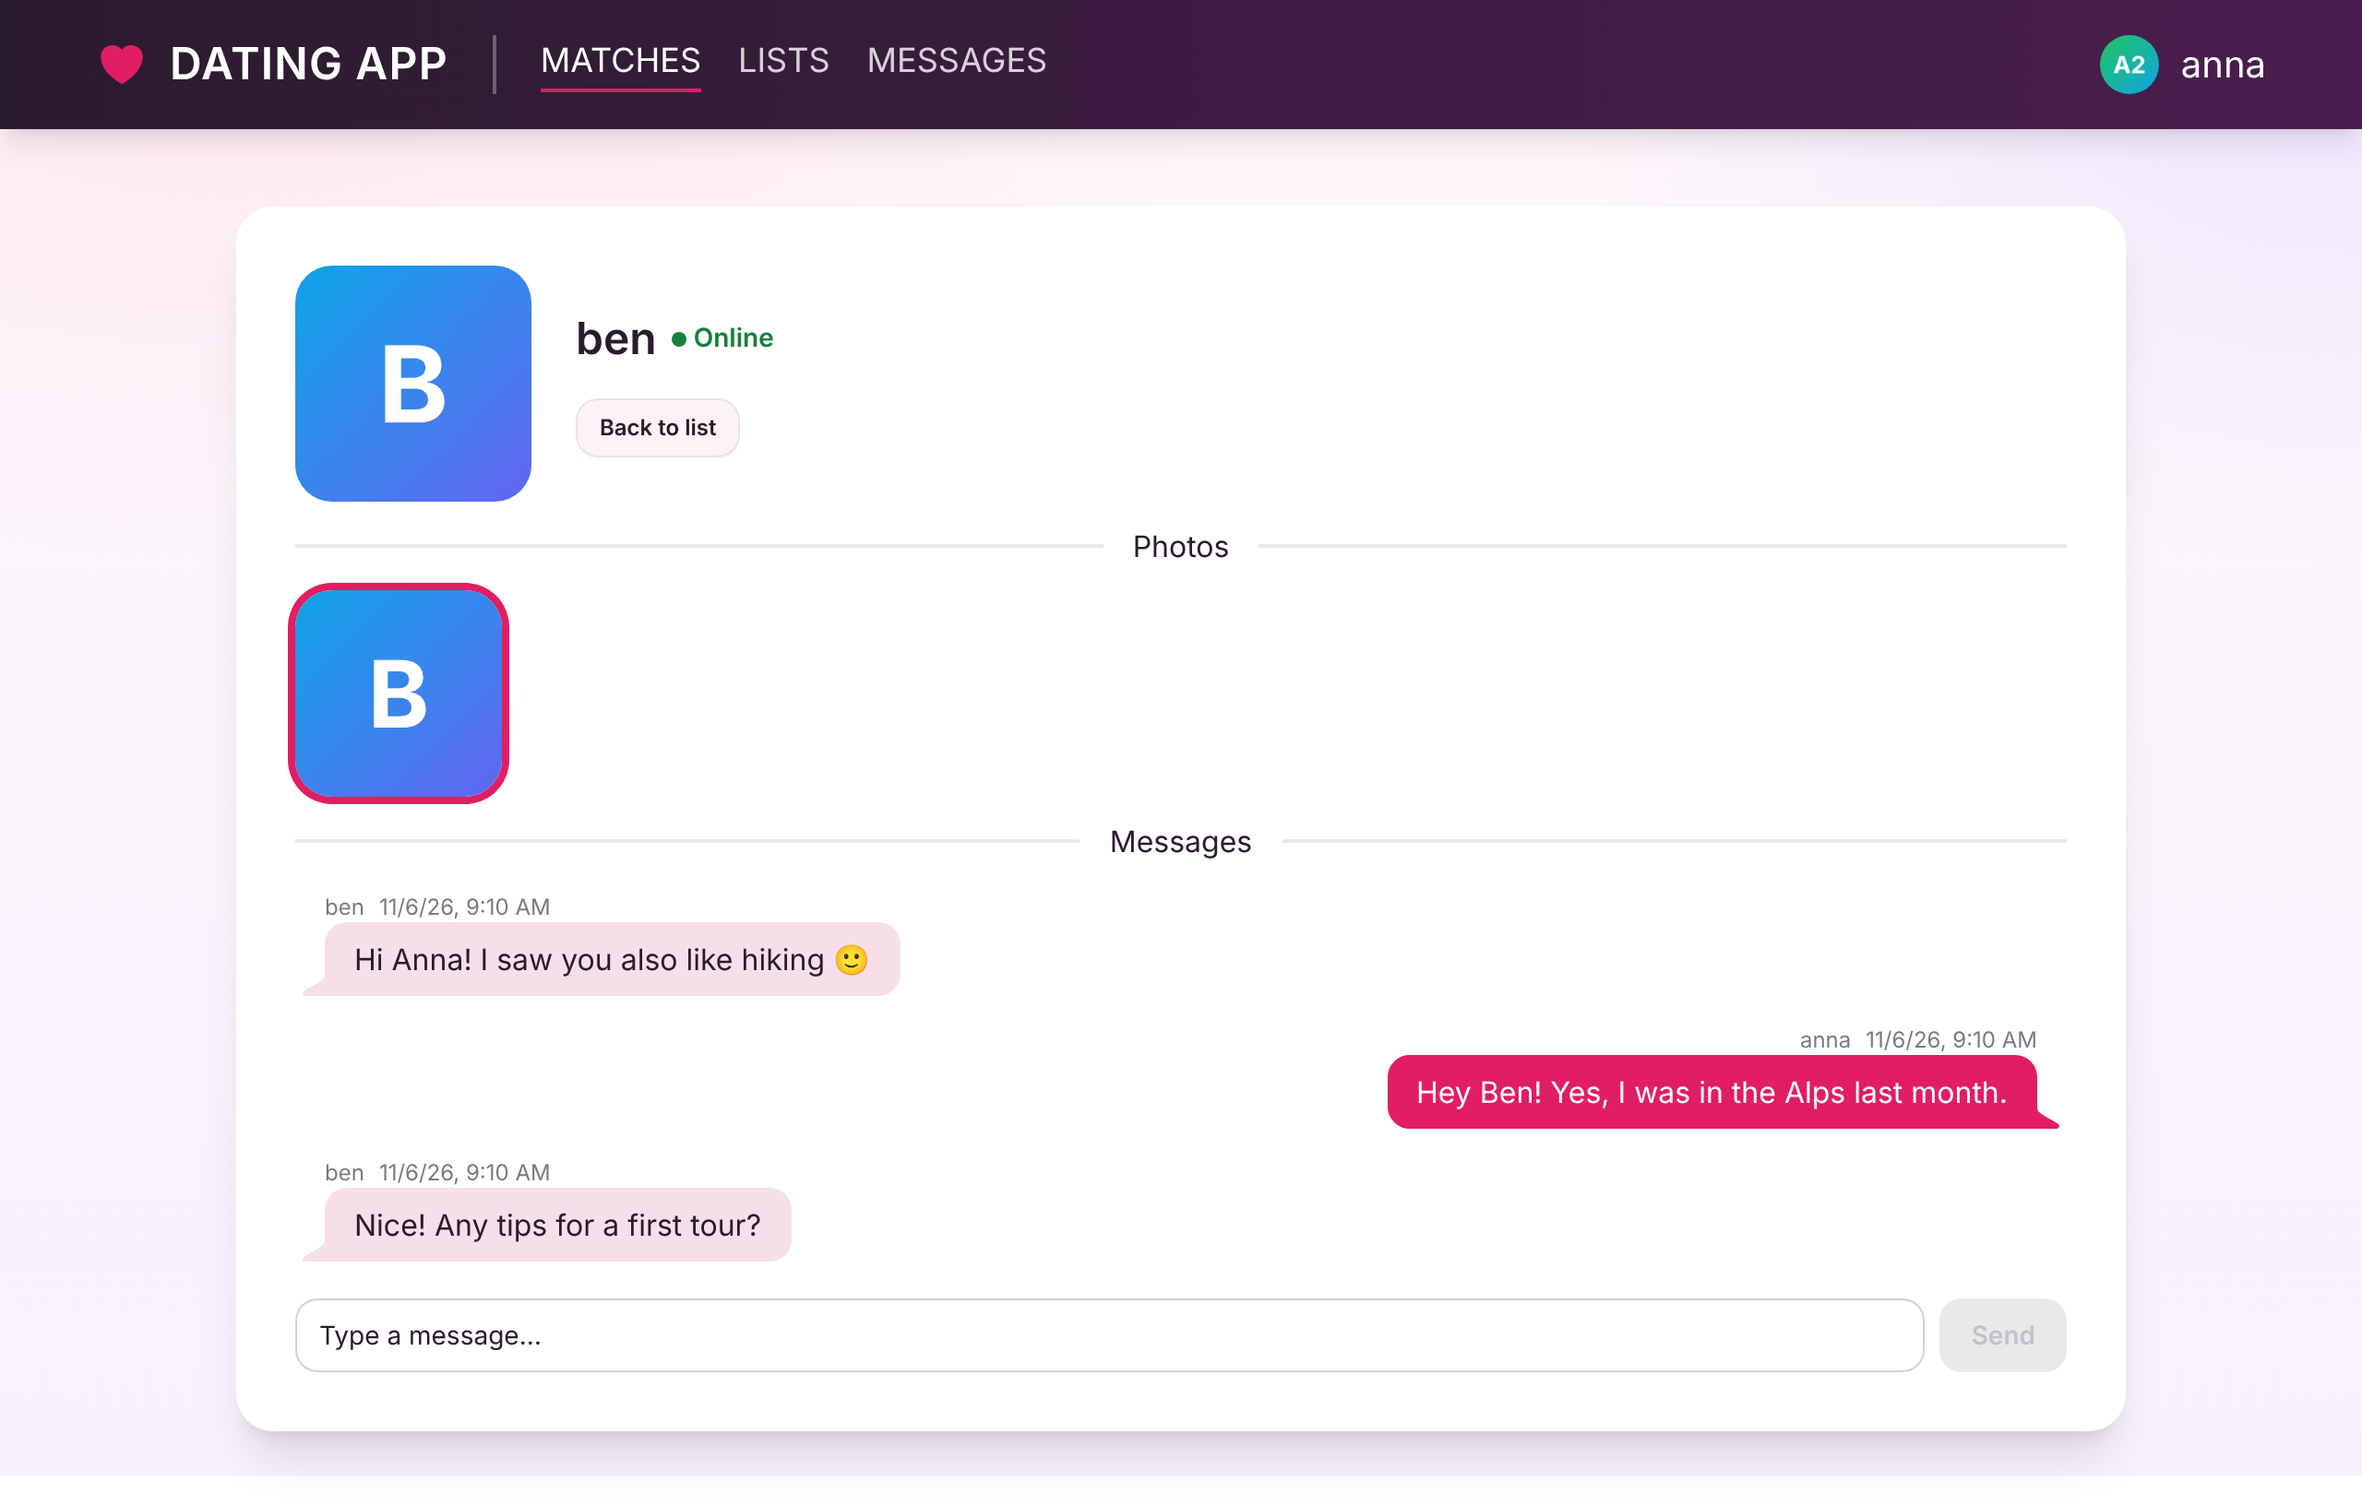
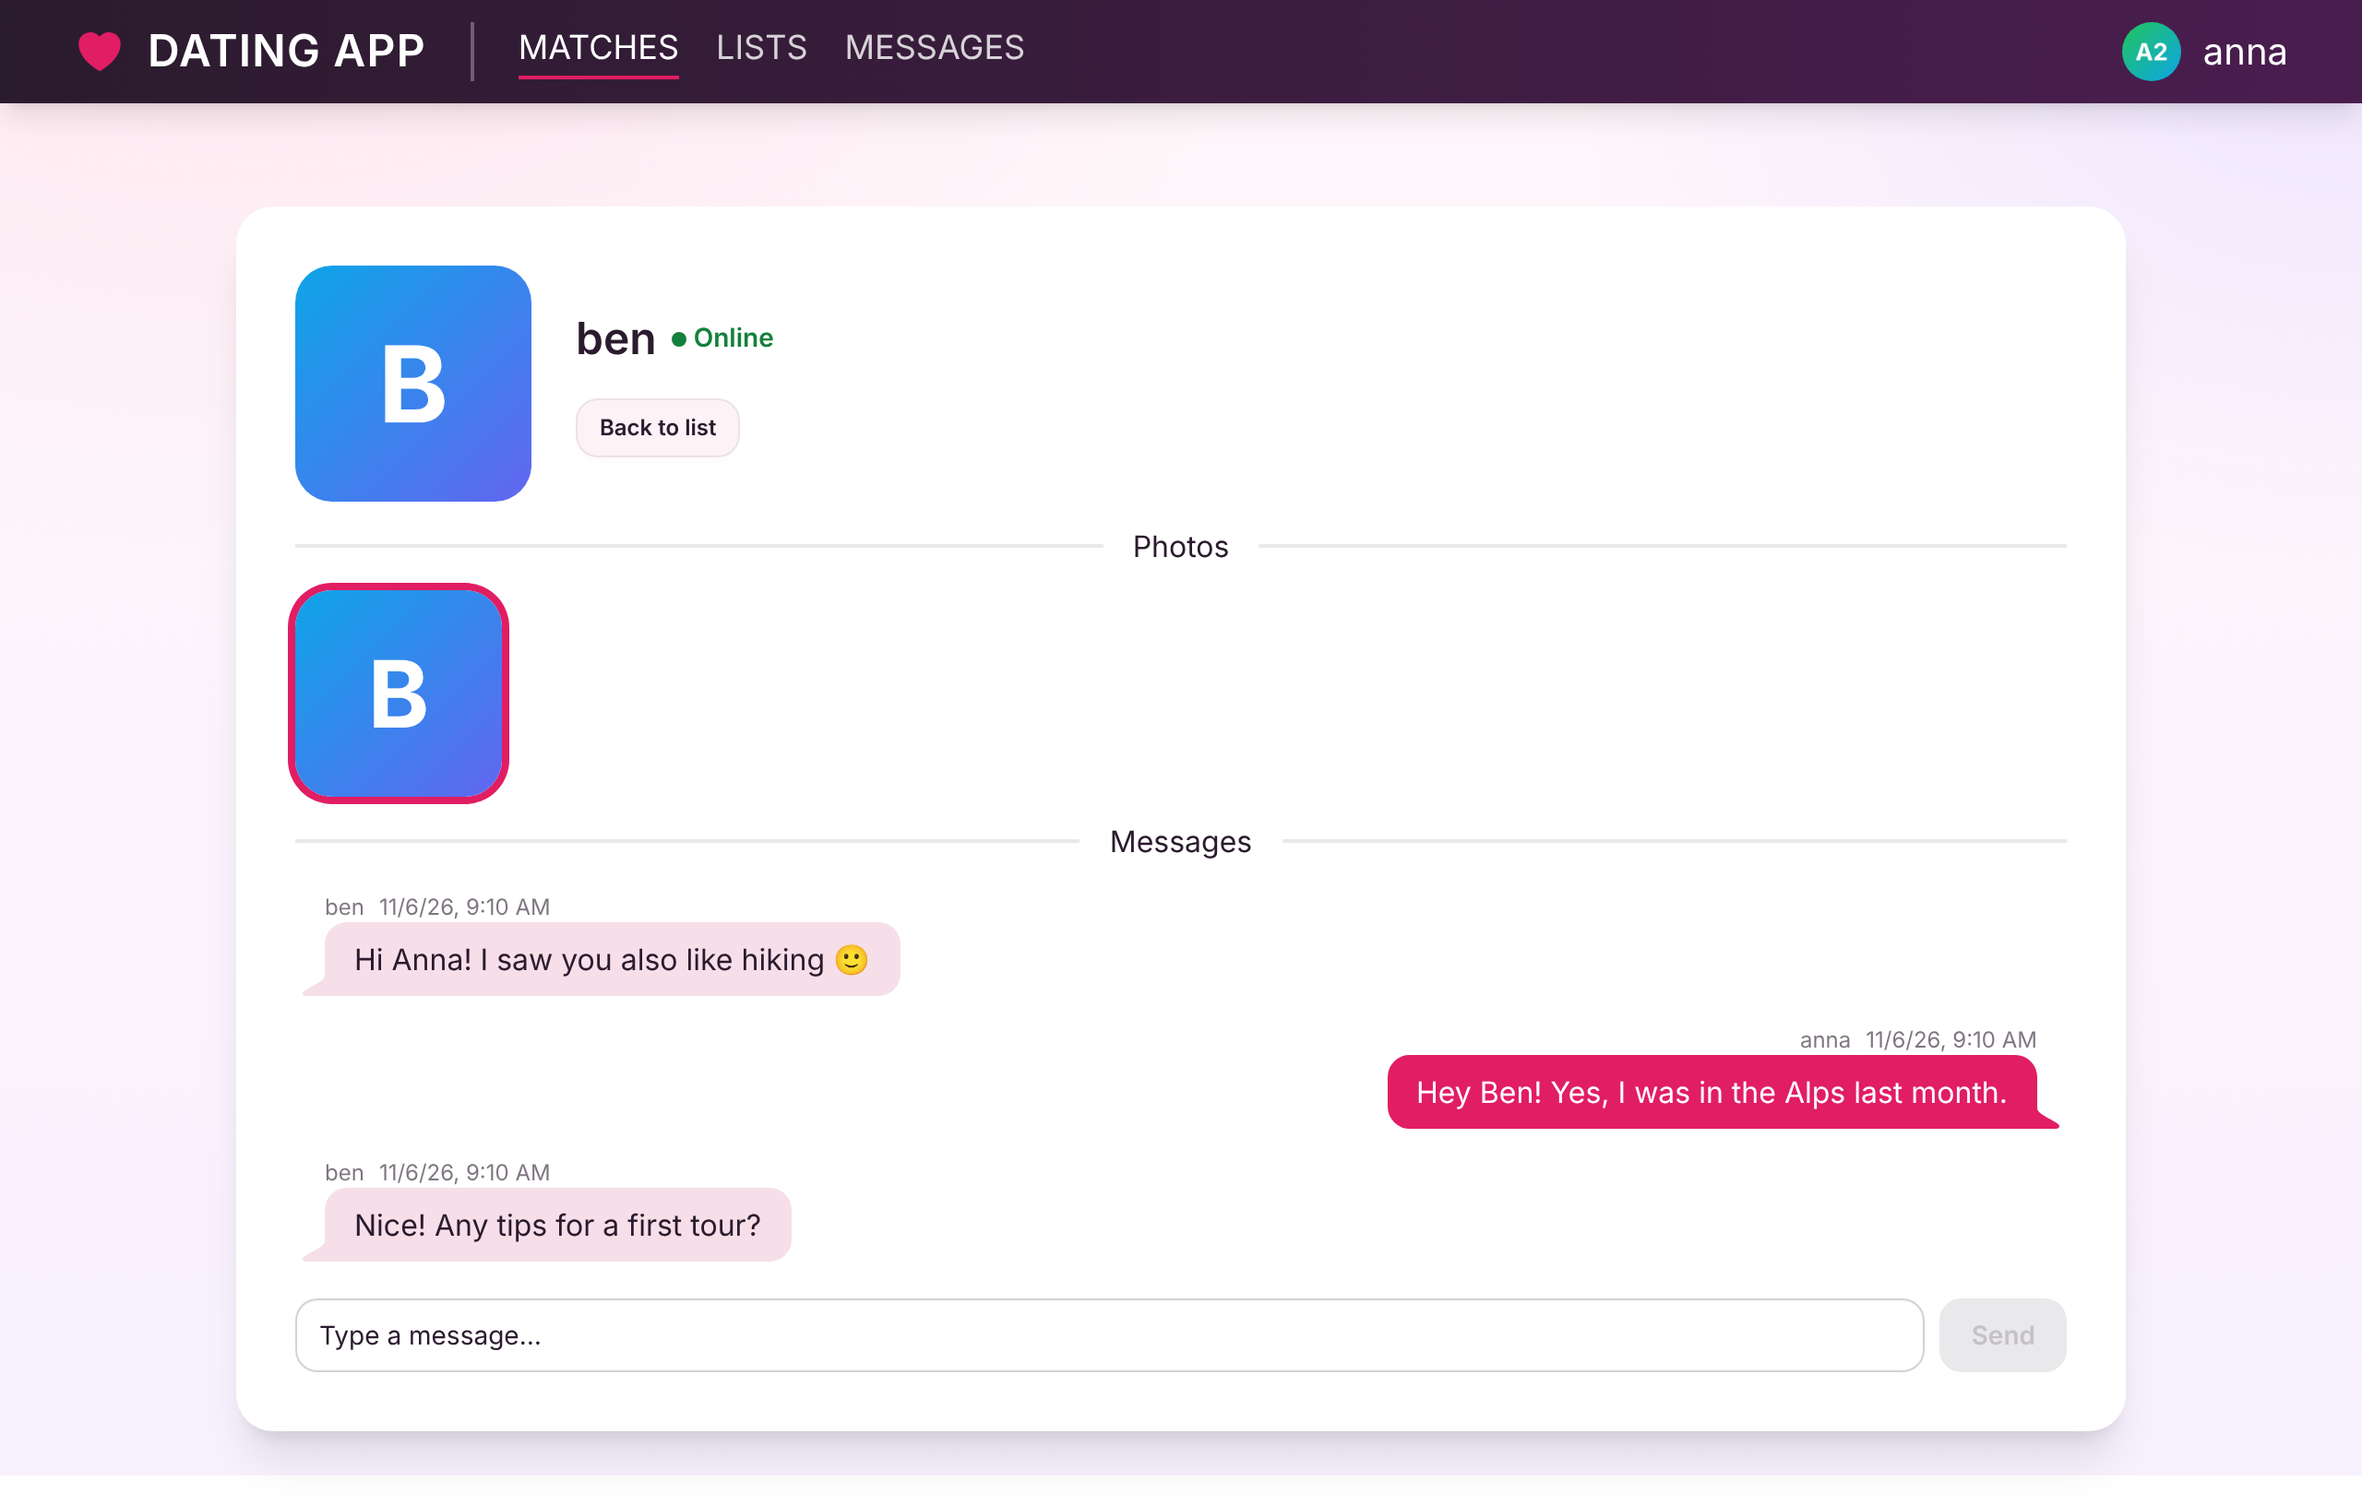
Responsive navbar and message list
- Navbar: below the lg breakpoint a menu button opens a panel with the
  links and either the login form + Register or Edit Profile + Logout;
  closes on navigation, login and logout; aria-expanded/-controls/-label
- Login inputs get visually hidden labels and type=email
- Messages: rows no longer use fixed column widths (caused horizontal
  scrolling on phones); name, date and preview stack next to the avatar
- README screenshots retaken

Claude-Session: https://claude.ai/code/session_01HU36gBJ36QF4X4vq91BXfG

Changed region(s): [[0.0, 0.0, 1.0, 0.0938]]

diff --git a/client/src/layout/nav/nav.html b/client/src/layout/nav/nav.html
@@ -1,50 +1,103 @@
-<header class ="p-3 w-full fixed top-0 z-50 bg-gradient-to-r from-neutral to-[#4a1d4f] shadow-lg">
-<div class="flex align-middle items-center px-10 mx-auto gap-6">
-  <a routerLink="/" class="flex items-center max-h-16 gap-3 text-white border-r-white/30 border-r-2 pr-6">
-  <svg xmlns="http://www.w3.org/2000/svg" viewBox="0 0 24 24" fill="currentColor" aria-hidden="true" class="size-7 text-primary">
-    <path d="m11.645 20.91-.007-.003-.022-.012a15.247 15.247 0 0 1-.383-.218 25.18 25.18 0 0 1-4.244-3.17C4.688 15.36 2.25 12.174 2.25 8.25 2.25 5.322 4.714 3 7.688 3A5.5 5.5 0 0 1 12 5.052 5.5 5.5 0 0 1 16.313 3c2.973 0 5.437 2.322 5.437 5.25 0 3.925-2.438 7.111-4.739 9.256a25.175 25.175 0 0 1-4.244 3.17 15.247 15.247 0 0 1-.383.219l-.022.012-.007.004-.003.001a.752.752 0 0 1-.704 0l-.003-.001Z" />
-  </svg>
+<header class="w-full fixed top-0 z-50 bg-gradient-to-r from-neutral to-[#4a1d4f] shadow-lg">
+  <div class="flex items-center gap-4 lg:gap-6 px-4 lg:px-10 py-3">
+    <!-- Logo -->
+    <a routerLink="/" class="flex items-center gap-3 text-white lg:border-r-2 lg:border-r-white/30 lg:pr-6">
+      <svg xmlns="http://www.w3.org/2000/svg" viewBox="0 0 24 24" fill="currentColor" aria-hidden="true" class="size-7 text-primary shrink-0">
+        <path d="m11.645 20.91-.007-.003-.022-.012a15.247 15.247 0 0 1-.383-.218 25.18 25.18 0 0 1-4.244-3.17C4.688 15.36 2.25 12.174 2.25 8.25 2.25 5.322 4.714 3 7.688 3A5.5 5.5 0 0 1 12 5.052 5.5 5.5 0 0 1 16.313 3c2.973 0 5.437 2.322 5.437 5.25 0 3.925-2.438 7.111-4.739 9.256a25.175 25.175 0 0 1-4.244 3.17 15.247 15.247 0 0 1-.383.219l-.022.012-.007.004-.003.001a.752.752 0 0 1-.704 0l-.003-.001Z" />
+      </svg>
+      <span class="text-xl lg:text-2xl font-semibold uppercase tracking-wide whitespace-nowrap">Dating App</span>
+    </a>
 
-    <h3 class="text-2xl font-semibold text-white uppercase tracking-wide">Dating App</h3>
-  </a>
-  <nav class="flex gap-5 my-2 uppercase text-lg text-white/80">
-    <a routerLink="/members" routerLinkActive="!text-white border-b-2 border-primary" class="hover:text-white transition-colors">Matches</a>
-    <a class="hover:text-white transition-colors">Lists</a>
-    @if (loggedIn()) {
-      <a routerLink="/messages" routerLinkActive="!text-white border-b-2 border-primary" class="hover:text-white transition-colors">Messages</a>
-    }
-  </nav>
-  <div class="flex align-middle ml-auto gap-3">
-    @if(loggedIn()){
-      <div class="dropdown dropdown-end">
-        <div tabindex="0" role="button"
-        class="flex items-center text-white text-xl gap-3 cursor-pointer">
-          <img [src]="accountService.currentUser()?.imageUrl || '/male_defaultAvatar_vecteezy.jpg'" alt="User Avatar" class="w-8 h-8 rounded-full object-cover">
-          <span>{{ accountService.currentUser()?.userName }}</span>
+    <!-- Desktop links -->
+    <nav class="hidden lg:flex gap-5 uppercase text-lg text-white/80">
+      <a routerLink="/members" routerLinkActive="!text-white border-b-2 border-primary" class="hover:text-white transition-colors">Matches</a>
+      <a class="hover:text-white transition-colors">Lists</a>
+      @if (loggedIn()) {
+        <a routerLink="/messages" routerLinkActive="!text-white border-b-2 border-primary" class="hover:text-white transition-colors">Messages</a>
+      }
+    </nav>
+
+    <!-- Desktop account area -->
+    <div class="hidden lg:flex items-center ml-auto gap-3">
+      @if (loggedIn()) {
+        <div class="dropdown dropdown-end">
+          <div tabindex="0" role="button" class="flex items-center text-white text-xl gap-3 cursor-pointer">
+            <img [src]="accountService.currentUser()?.imageUrl || '/male_defaultAvatar_vecteezy.jpg'" alt="User avatar" class="size-8 rounded-full object-cover">
+            <span>{{ accountService.currentUser()?.userName }}</span>
+          </div>
+          <ul tabindex="-1" class="dropdown-content menu bg-base-100 rounded-box z-1 w-52 p-2 shadow-sm">
+            <li><a>Edit Profile</a></li>
+            <li><a (click)="logout()">Logout</a></li>
+          </ul>
         </div>
-        <ul tabindex="-1" class="dropdown-content  menu bg-base-100 rounded-box z-1 w-52 p-2 shadow-sm">
-          <li><a>Edit Profile</a></li>
-          <li><a (click)="logout()">Logout</a></li>
-        </ul>
-      </div>
-    } @else {
-  <form #loginForm="ngForm" (ngSubmit)="login()" class="flex items-center gap-3">
-      <input
-        [(ngModel)]="creds.email"
-        name="email"
-        type="text"
-        class ="input"
-        placeholder="Email">
-      <input 
-        [(ngModel)]="creds.password" 
-        type="password" 
-        name="password"
-        class ="input" 
-        placeholder="Password">
-      <button type="submit" class="btn">Login</button>
-      <a routerLink="/register" class="btn btn-primary">Register</a>
-    </form>   
-    }
+      } @else {
+        <form (ngSubmit)="login()" class="flex items-center gap-3">
+          <label for="nav-email" class="sr-only">Email</label>
+          <input id="nav-email" [(ngModel)]="creds.email" name="email" type="email" autocomplete="email" class="input w-44 xl:w-56" placeholder="Email">
+          <label for="nav-password" class="sr-only">Password</label>
+          <input id="nav-password" [(ngModel)]="creds.password" name="password" type="password" autocomplete="current-password" class="input w-44 xl:w-56" placeholder="Password">
+          <button type="submit" class="btn">Login</button>
+          <a routerLink="/register" class="btn btn-primary">Register</a>
+        </form>
+      }
     </div>
-</div>
+
+    <!-- Mobile: avatar + menu toggle -->
+    <div class="flex lg:hidden items-center gap-3 ml-auto">
+      @if (loggedIn()) {
+        <img [src]="accountService.currentUser()?.imageUrl || '/male_defaultAvatar_vecteezy.jpg'" alt="User avatar" class="size-8 rounded-full object-cover">
+      }
+      <button
+        type="button"
+        class="btn btn-ghost btn-square text-white hover:bg-white/10"
+        (click)="toggleMenu()"
+        [attr.aria-expanded]="menuOpen()"
+        aria-controls="mobile-menu"
+        [attr.aria-label]="menuOpen() ? 'Close menu' : 'Open menu'">
+        @if (menuOpen()) {
+          <svg xmlns="http://www.w3.org/2000/svg" fill="none" viewBox="0 0 24 24" stroke-width="2" stroke="currentColor" aria-hidden="true" class="size-6">
+            <path stroke-linecap="round" stroke-linejoin="round" d="M6 18 18 6M6 6l12 12" />
+          </svg>
+        } @else {
+          <svg xmlns="http://www.w3.org/2000/svg" fill="none" viewBox="0 0 24 24" stroke-width="2" stroke="currentColor" aria-hidden="true" class="size-6">
+            <path stroke-linecap="round" stroke-linejoin="round" d="M3.75 6.75h16.5M3.75 12h16.5m-16.5 5.25h16.5" />
+          </svg>
+        }
+      </button>
+    </div>
+  </div>
+
+  <!-- Mobile menu panel -->
+  @if (menuOpen()) {
+    <div id="mobile-menu" class="lg:hidden border-t border-white/10 px-4 pb-5 pt-2">
+      <nav class="flex flex-col uppercase text-lg text-white/80">
+        <a routerLink="/members" routerLinkActive="!text-white" class="py-3 border-b border-white/10 hover:text-white">Matches</a>
+        <a class="py-3 border-b border-white/10 hover:text-white">Lists</a>
+        @if (loggedIn()) {
+          <a routerLink="/messages" routerLinkActive="!text-white" class="py-3 border-b border-white/10 hover:text-white">Messages</a>
+        }
+      </nav>
+
+      @if (loggedIn()) {
+        <div class="flex items-center gap-3 pt-4 text-white">
+          <span class="text-lg">{{ accountService.currentUser()?.userName }}</span>
+          <div class="ml-auto flex gap-2">
+            <button type="button" class="btn btn-sm">Edit Profile</button>
+            <button type="button" class="btn btn-sm btn-primary" (click)="logout()">Logout</button>
+          </div>
+        </div>
+      } @else {
+        <form (ngSubmit)="login()" class="flex flex-col gap-3 pt-4">
+          <label for="m-email" class="sr-only">Email</label>
+          <input id="m-email" [(ngModel)]="creds.email" name="email" type="email" autocomplete="email" class="input w-full" placeholder="Email">
+          <label for="m-password" class="sr-only">Password</label>
+          <input id="m-password" [(ngModel)]="creds.password" name="password" type="password" autocomplete="current-password" class="input w-full" placeholder="Password">
+          <div class="flex gap-3">
+            <button type="submit" class="btn flex-1">Login</button>
+            <a routerLink="/register" class="btn btn-primary flex-1">Register</a>
+          </div>
+        </form>
+      }
+    </div>
+  }
 </header>

diff --git a/client/src/messages/messages/messages.html b/client/src/messages/messages/messages.html
@@ -11,7 +11,7 @@
     }
   </div>
 
-  <div class="card bg-base-100 p-6 shadow-xl">
+  <div class="card bg-base-100 p-2 sm:p-6 shadow-xl">
     @if (loading()) {
       <p class="text-center"><span class="loading loading-spinner"></span></p>
     } @else if (messages().length === 0) {
@@ -19,19 +19,21 @@
     } @else {
       <ul class="list">
         @for (message of messages(); track message.id) {
-          <li class="list-row items-center gap-4">
-            <img [src]="partnerPhoto(message)" alt="avatar" class="size-12 rounded-box object-cover">
-            <a [routerLink]="['/members', partnerId(message)]" class="font-semibold w-28 truncate">
-              {{ partnerName(message) }}
-            </a>
-            <div class="flex-1 truncate opacity-90">{{ message.content }}</div>
-            <div class="text-xs opacity-60 w-40 text-right">
-              {{ message.messageSent | date: 'short' }}
-              @if (!isOutbox() && !message.dateRead) {
-                <span class="badge badge-primary badge-xs ml-1">new</span>
-              }
+          <li class="list-row items-center">
+            <img [src]="partnerPhoto(message)" alt="" class="size-12 rounded-box object-cover">
+            <div class="min-w-0">
+              <div class="flex items-baseline gap-2">
+                <a [routerLink]="['/members', partnerId(message)]" class="font-semibold truncate hover:text-primary">
+                  {{ partnerName(message) }}
+                </a>
+                @if (!isOutbox() && !message.dateRead) {
+                  <span class="badge badge-primary badge-xs">new</span>
+                }
+                <span class="ml-auto text-xs opacity-60 whitespace-nowrap">{{ message.messageSent | date: 'short' }}</span>
+              </div>
+              <div class="truncate text-sm opacity-90">{{ message.content }}</div>
             </div>
-            <button class="btn btn-xs btn-error" (click)="deleteMessage(message.id)">✕</button>
+            <button class="btn btn-xs btn-error btn-circle" (click)="deleteMessage(message.id)" aria-label="Delete message">✕</button>
           </li>
         }
       </ul>

diff --git a/client/src/layout/nav/nav.ts b/client/src/layout/nav/nav.ts
@@ -1,7 +1,8 @@
-import { Component, computed } from '@angular/core';
+import { Component, computed, inject, signal } from '@angular/core';
+import { takeUntilDestroyed } from '@angular/core/rxjs-interop';
 import { FormsModule } from '@angular/forms';
-import { RouterLink, RouterLinkActive } from '@angular/router';
-import { inject } from '@angular/core';
+import { NavigationEnd, Router, RouterLink, RouterLinkActive } from '@angular/router';
+import { filter } from 'rxjs';
 import { AccountService } from '../../core/services/account-service.service';
 import { ToastService } from '../../core/services/toast-service';
 
@@ -17,12 +18,26 @@ export class Nav {
   private toast = inject(ToastService);
   protected creds: any = {}
   protected loggedIn = computed(() => !!this.accountService.currentUser());
+  // Mobile menu (below the lg breakpoint).
+  protected menuOpen = signal(false);
+
+  constructor() {
+    // Close the mobile menu whenever the user navigates.
+    inject(Router).events
+      .pipe(filter((e) => e instanceof NavigationEnd), takeUntilDestroyed())
+      .subscribe(() => this.menuOpen.set(false));
+  }
+
+  toggleMenu() {
+    this.menuOpen.update((open) => !open);
+  }
 
   login()
   {
     this.accountService.login(this.creds).subscribe({
       next: () => {
         this.creds = {};
+        this.menuOpen.set(false);
         this.toast.success('Logged in successfully');
       },
       error: () => this.toast.error('Failed to log in')
@@ -32,6 +47,7 @@ export class Nav {
   logout()
   {
     this.accountService.logout();
+    this.menuOpen.set(false);
     this.toast.info('Logged out');
   }
 }
